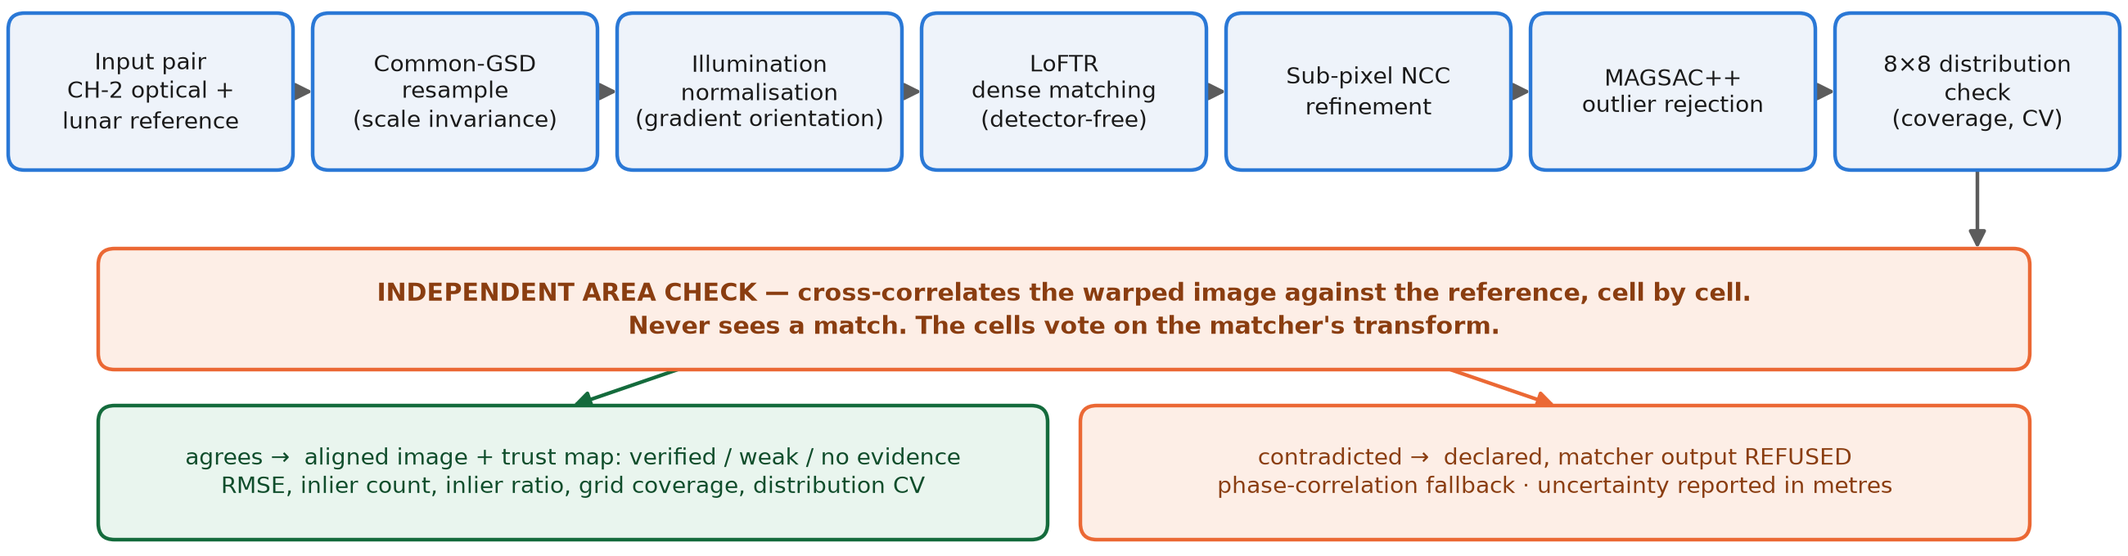
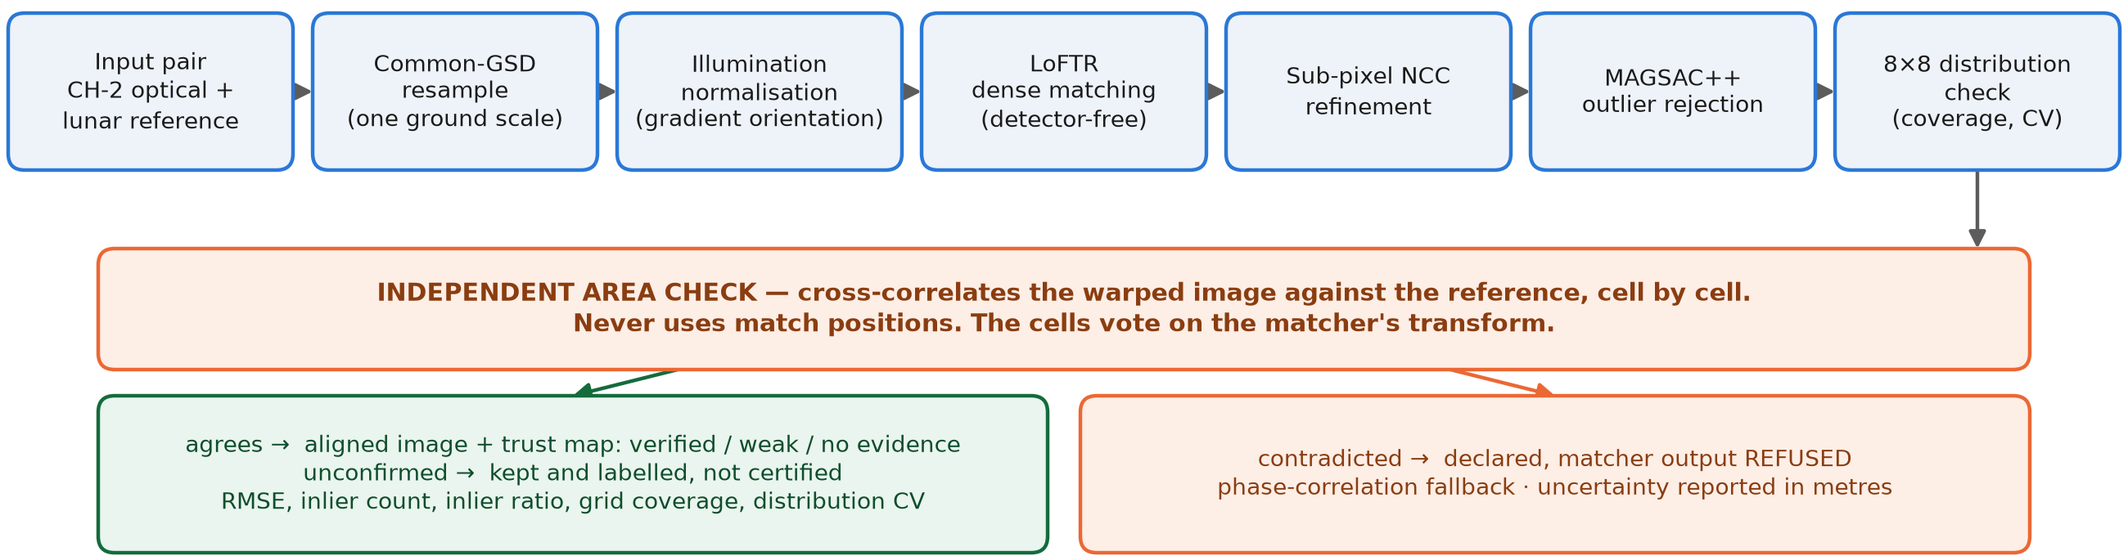
Deck v2 after claim-checker on the filled deck: scope and labels, not numbers; fits the footer
claim-checker at 3214e8a: 0 numeric mismatches; 3 HIGH, 7 MEDIUM, 12 LOW, all about what a
number is measured on. Fixed in presentation/build_deck.py: the held-out residual names the
74 S site and Suns 3-6 deg apart and puts SAC's equatorial pair (0.69-1.7 px, 1.62 m grid)
beside it; OHRC -> TMC-2 gives azimuth AND incidence difference; MiLOI scene S3 named on both
slides; planted-error scope (22 windows, Sun azimuths under 10 deg) and 1-2 m (2/352);
corner offset is a disagreement removed before matching; loops are consistency, not ground
accuracy; Kaguya TC named as the visible side; fore/aft quotes its one accepted window.
presentation/make_figures.py: fig5 legend 'accepted' (verified is a cell state), title range
read from the rows, rare outcomes drawn on top; fig4 shows the unconfirmed branch, 'never
uses match positions', 'one ground scale'.

The PowerPoint render showed slides 2 and 4 running into the footer (the build audit checks
boxes, not rendered text); both tightened, and presentation/export_pdf.py now fails on any
text in the footer band. PDF CHECK is clean apart from the portal Team ID.

core/pipeline.py: the CLI's --out passes the pair's geometry_prior.json to export_bundle, so
its report.md names tier and instruments. Reporting only: no evidence path uses the CLI
export, and no logged number changes (evidence stays at 49bdad9).
README: 'never uses the match positions'; the Sun sweep is under OHRC <-> NAC.
[…]

diff --git a/presentation/build_deck.py b/presentation/build_deck.py
@@ -150,15 +150,15 @@ S2 = [
     # core/pipeline.run_all order: LoFTR -> _refine_subpixel -> filter_matches (MAGSAC++).
     ("One ground scale; lighting reduced to edge direction; LoFTR matches; sub-pixel "
      "refinement; MAGSAC++.", 1, False, INK),
-    ("An independent area check never uses the matches: it cross-correlates the warped image "
-     "against the reference in 8×8 cells, inverted shading too, and says agrees, "
-     "unconfirmed or contradicted; contradicted falls back.", 1, False, INK),
+    ("An independent area check, blind to match positions, cross-correlates the warped image "
+     "with the reference in 8×8 cells: agrees, unconfirmed, or contradicted, which falls back.",
+     1, False, INK),
     ("How it addresses the problem", 0, True, BLUE),
     # REPORT.md "SAC's own benchmark pair (equatorial ...)": Δsun az (an AZIMUTH difference),
     # count of `agrees` / rows. "(polar ...)": `agrees` / rows.
-    ("SAC's own pairs (arXiv:2509.04775, Table 1), real and cross-sensor: OHRC ↔ NAC "
-     "M1350459544RE, Sun azimuths 174° apart, 6/6 windows accepted; polar "
-     "M165491149RE, Suns 132° apart, 4/6, the other two flagged.", 1, False, INK),
+    ("SAC's own pairs (arXiv:2509.04775, Table 1), cross-sensor: OHRC ↔ NAC M1350459544RE, "
+     "Sun azimuths 174° apart, 6/6 windows accepted; polar M165491149RE, 132°, 4/6, the "
+     "other two flagged.", 1, False, INK),
     # "Real sun-angle sweep": "All bins" line (NAC frames, azimuth range).
     # "Scale rung: ... TC ortho map": scale column, `agrees` / rows. LOLA: "Declared-failure rung".
     # Polar: 4 agrees, 1 unconfirmed, 1 contradicted (fallback) = "the other two flagged".
@@ -166,17 +166,18 @@ S2 = [
      "and Kaguya TC 7.4 m (29.6×, 3/4 accepted); to LOLA 60 m it declares failure.",
      1, False, INK),
     # "Kaguya TC -> Kaguya MI" + "... IIRS": windows declared fft fallback / total.
-    ("Multi-modal: visible to Kaguya MI 1548 nm and IIRS infrared — learned matching fails; "
+    ("Multi-modal: Kaguya TC (visible) to Kaguya MI 1548 nm and Chandrayaan-2 IIRS infrared — "
+     "learned matching fails; "
      "13 of 14 windows are refused and fall back, the other stays unconfirmed.", 1, False, INK),
     ("Innovation and uniqueness", 0, True, ACCENT),
     # "MiLOI": the verdict table, column "matcher H within 3 px" (what the trust layer judges).
     # NOT "independent": the truth network is built from OTHER pairs where ours and SIFT agree.
-    ("On 81 real same-sensor NAC pairs (MiLOI), truth built leave-one-out from other pairs "
-     "where ours and SIFT agree: agrees within 3 px 33/33; contradicted wrong "
-     "43/43; unconfirmed wrong 5/5.", 1, False, INK),
+    ("MiLOI, 81 real same-sensor NAC pairs, truth from other pairs where ours and SIFT agree "
+     "(56 in scene S3, where it has no redundancy): agrees within 3 px 33/33, contradicted "
+     "wrong 43/43, unconfirmed wrong 5/5.", 1, False, INK),
     # "Trust layer on real imagery: planted ...": 0 m row = false alarms; 3 m row; >= 5 m rows.
-    ("Planted wrong answers in real OHRC/NAC windows: 0% false alarms on correct ones, "
-     "81% caught at 3 m, 100% from 5 m; 2 m or less almost always passes. No matches means "
+    ("Planted wrong answers, 22 real OHRC/NAC windows (Sun azimuths under 10° apart): 0/44 "
+     "false alarms; flagged 81% at 3 m, 100% from 5 m, 2/352 at 1–2 m. No matches means "
      "\"no evidence\", never \"verified\".", 1, True, ACCENT),
 ]
 
@@ -197,31 +198,34 @@ S3_RIGHT = [
     ("Prototype: a Streamlit app exporting the registered GeoTIFF, GDAL/QGIS control points, "
      "an ISIS-style match list, metrics and the trust map.", 1, False, INK),
     ("Every run appends to the evidence logs; a generator rebuilds the report from them, and "
-     "every number here is copied from it.", 1, False, INK),
+     "every number here traces to it.", 1, False, INK),
 ]
 
 S4 = [
     ("Analysis of the feasibility", 0, True, BLUE),
     # REPORT.md footer: registered pairs; instrument pairings = its pair sections (OHRC-NAC,
     # NAC-NAC, OHRC-TMC2, TMC2-TMC2, TC-MI, TC-IIRS, OHRC-TC, OHRC-LOLA). "Loop closure".
-    ("Built and measured, not proposed: 136 real windows across 8 instrument pairings, all "
-     "public data, all libraries open-source. Three-image loops close to 0.10 m.", 1, False, INK),
+    ("Built and measured, not proposed: 136 real window pairs, 8 instrument pairings, public "
+     "data, open-source libraries. Six three-image loops close to a median 0.10 m "
+     "(consistency, not ground accuracy).", 1, False, INK),
     # "Chandrayaan-2 OHRC -> LRO NAC": held-out median range, Δsun az range, ref_gsd_m values.
-    ("Held-out residual on real OHRC → NAC windows (Sun 3.3–5.8° apart): median "
-     "0.41–1.0 px on the ~1 m NAC grids (0.51–0.94 m). A residual, not ground truth.",
+    ("Held-out residual, OHRC → NAC, median per window: 0.41–1.0 px (0.51–0.94 m) at 74 °S, "
+     "Sun azimuths 3–6° apart, ~1 m grids; 0.69–1.7 px (1.1–2.7 m) on SAC's equatorial pair, "
+     "174° apart, 1.62 m grid. Not ground truth.",
      1, False, INK),
     ("Potential challenges and risks", 0, True, ACCENT),
     # "MiLOI" table rows 90-120, 120-180 (all methods); "Real sun-angle sweep" bins 60-90, 90-120
     # (accepted / windows) and 120-180. "SAC's benchmark site: OHRC -> TMC-2": Δsun az, verdicts.
-    ("The hard band: no method registered a MiLOI pair with the Suns over 90° apart (0 of "
-     "16); our sweep accepted 0 of 12 windows at 60–120° azimuth, yet 10 of 15 at "
-     "120–153°. OHRC → TMC-2 at SAC's site, Suns 120° apart: 0 of 4, all refused.", 1, False, INK),
+    ("The hard band: no method registered any of the 16 MiLOI pairs with Suns over 90° apart "
+     "(all scene S3); our sweep accepted 0 of 12 at 60–120° azimuth, 10 of 15 at 120–153°; "
+     "OHRC → TMC-2 at SAC's site (azimuths 120°, incidence 59° apart): all 4 refused.",
+     1, False, INK),
     # "SAC's own benchmark pair (equatorial ...)" note: the wide-search offset.
-    ("Archive geometry is not truth: at SAC's site the NAC's published corners sat 1.9 km from "
-     "the OHRC grid; we correct it and report it.", 1, False, INK),
+    ("Archive geometry is not truth: at SAC's equatorial site the NAC's published corners and "
+     "the OHRC grid disagree by 1.9 km; a wide search removes it before matching.", 1, False, INK),
     # "Real viewpoint: TMC-2 fore -> aft": held-out median column (NOT the RMSE-within-3-px one).
-    ("Relief parallax is not a homography: TMC-2 fore vs aft (same sensor) leaves a held-out "
-     "median of 2.6–49 px on its 5.9 m grid.", 1, False, INK),
+    ("Relief parallax is not a homography: TMC-2 fore vs aft (same sensor, same Sun) accepts 1 "
+     "window of 4, held-out median 2.6 px (16 m) on its 5.9 m grid.", 1, False, INK),
     ("Strategies for overcoming these challenges", 0, True, BLUE),
     ("Tile-level local transforms and LOLA-based orthorectification for relief.", 1, False, INK),
     ("Full-scene tiled processing of OHRC strips; IIRS band selection for the infrared leg.",
@@ -233,9 +237,10 @@ S5 = [
     # "Trust layer on real imagery": >= 5 m rows; the 1-2 m rows are the stated floor.
     ("Landing-site safety at the lunar south pole: a hazard map is only as good as the "
      "alignment beneath it. Every region carries its own verdict; planted errors of 5 m or more "
-     "were all flagged, and the floor — about 2 m — is stated, not hidden.", 1, False, INK),
+     "were all flagged, 81% at 3 m, and at 2 m or less almost none — that floor is stated, "
+     "not hidden.", 1, False, INK),
     # distinct OHRC products in real_pairs_log (source_product ch2_ohr_*) and their sites.
-    ("OHRC frames co-register with LRO NAC and Kaguya TC (3 frames at 3 sites so far): "
+    ("OHRC frames co-register with LRO NAC (3 frames at 3 sites) and Kaguya TC (1 site) so far: "
      "mosaics, time series and change detection gated by trust.", 1, False, INK),
     ("Benefits of the solution", 0, True, ACCENT),
     ("Scientific: a verdict per region instead of one number for a whole image, calibrated "

diff --git a/presentation/make_figures.py b/presentation/make_figures.py
@@ -593,7 +593,7 @@ def fig_pipeline():
 
     steps = [
         "Input pair\nCH-2 optical +\nlunar reference",
-        "Common-GSD\nresample\n(scale invariance)",
+        "Common-GSD\nresample\n(one ground scale)",
         "Illumination\nnormalisation\n(gradient orientation)",
         "LoFTR\ndense matching\n(detector-free)",
         # run_all's order: refinement (pipeline._refine_subpixel) runs BEFORE MAGSAC++
@@ -616,16 +616,17 @@ def fig_pipeline():
     cx, cw, cy, ch = 0.60, 11.80, 1.14, 0.74
     placed.append(_box(ax, cx, cy, cw, ch,
                        "INDEPENDENT AREA CHECK — cross-correlates the warped image against the "
-                       "reference, cell by cell.\nNever sees a match. The cells vote on "
+                       "reference, cell by cell.\nNever uses match positions. The cells vote on "
                        "the matcher's transform.",
                        "#fdeee6", ORANGE, fs=10.8, bold=True, colour="#8a3d10"))
     last_x = x0 + (n - 1) * (w + gap) + w / 2
     _arrow(ax, last_x, y, last_x, cy + ch)
 
     # Two outcomes, and the second one is the point.
-    oy, oh = 0.10, 0.82
+    oy, oh = 0.02, 0.96
     placed.append(_box(ax, 0.60, oy, 5.80, oh,
                        "agrees →  aligned image + trust map: verified / weak / no evidence\n"
+                       "unconfirmed →  kept and labelled, not certified\n"
                        "RMSE, inlier count, inlier ratio, grid coverage, distribution CV",
                        "#e9f5ee", "#146b3c", fs=10, colour="#0f4d2b"))
     placed.append(_box(ax, 6.60, oy, 5.80, oh,
@@ -649,7 +650,7 @@ def fig_pipeline():
 REAL_LOG = ROOT / "evaluation" / "real_pairs_log.csv"
 TRUST_REAL = ROOT / "evaluation" / "trust_real_calibration.csv"
 OUTCOME_STYLE = {   # colour AND marker, so identity is never colour-alone
-    "correct_accepted": (AQUA, "o", "registered, verified"),
+    "correct_accepted": (AQUA, "o", "registered, accepted"),
     "caught_failure": (BLUE, "s", "failed, and the system said so"),
     "false_alarm": (MUTED, "D", "correct, but flagged"),
     "missed_failure": (ORANGE, "X", "failed, NOT caught"),
@@ -689,11 +690,13 @@ def fig_real_sun_sweep():
             continue
         counts[key] = len(pts)
         x, y = zip(*pts)
-        ax.scatter(x, y, s=70, c=col, marker=mk, edgecolors=SURFACE, linewidths=1.2, zorder=3,
+        ax.scatter(x, y, s=70, c=col, marker=mk, edgecolors=SURFACE, linewidths=1.2,
+                   zorder=5 if key in ("caught_failure", "missed_failure") else 3,
                    label=f"{label} ({len(pts)})")
     ax.set_xlabel("sun-azimuth difference, OHRC vs NAC  (degrees)", fontsize=14)
     ax.set_ylabel("inlier matches per window", fontsize=14)
-    ax.set_title("Real OHRC vs LRO NAC: one site, sun 3-153° apart",
+    az = [float(r["d_sun_azimuth_deg"]) for r in rows if r.get("d_sun_azimuth_deg")]
+    ax.set_title(f"Real OHRC vs LRO NAC: Sun azimuths {min(az):.0f}–{max(az):.0f}° apart",
                  loc="left", fontweight="bold", fontsize=15, pad=10)
     ax.set_xlim(-5, 165)
     ax.set_ylim(0, 20000)

diff --git a/presentation/export_pdf.py b/presentation/export_pdf.py
@@ -15,6 +15,7 @@ demo venv on purpose (it is not on the demo path):
     pip install --target <some dir> pymupdf ; set PYTHONPATH=<some dir>
 
 Checks on the result, all printed: 6 pages, the slide aspect ratio, each page's title text,
+no text running into the footer bar (the one overflow the build audit cannot see),
 no "[TBD]" left, the file size. Do not upload a PDF this script did not pass.
 """
 from __future__ import annotations
@@ -29,6 +30,7 @@ HERE = pathlib.Path(__file__).resolve().parent
 DECK = HERE / "SIH26166_LunaXX_deck.pptx"
 PDF = DECK.with_suffix(".pdf")
 POWERPNT = r"C:\Program Files\Microsoft Office\root\Office16\POWERPNT.EXE"
+FOOTER_TOP_IN = 6.95                      # the template's footer bar starts here (build_deck)
 TITLES = ("TITLE PAGE", "IDEA TITLE", "TECHNICAL APPROACH", "FEASIBILITY AND VIABILITY",
           "IMPACT AND BENEFITS", "RESEARCH")
 
@@ -104,6 +106,15 @@ def crop_and_check(printed: pathlib.Path, final: pathlib.Path) -> int:
             problems.append(f"page {i + 1}: title {TITLES[i]!r} not found")
         if "TBD" in text:
             problems.append(f"page {i + 1}: a [TBD] placeholder is still on the page")
+        # Text that runs into the footer bar (from 6.95 in of 7.5). build_deck's audit checks
+        # the text BOXES; only the rendered page shows text overflowing its box, and on 20 Sep
+        # slides 2 and 4 did exactly that. The page number is the one thing allowed there.
+        if i:
+            r = page.rect
+            foot = r.y0 + r.height * FOOTER_TOP_IN / 7.5
+            for b in page.get_text("blocks"):
+                if b[3] > foot + 1 and not b[4].strip().isdigit():
+                    problems.append(f"page {i + 1}: text runs into the footer: {b[4].strip()[:50]!r}")
     doc.set_metadata({"title": "SIH26166 - LunaXX", "author": "Team LunaXX",
                       "subject": "Smart India Hackathon 2026, problem statement SIH26166"})
     doc.save(str(final), garbage=3, deflate=True)

diff --git a/core/pipeline.py b/core/pipeline.py
@@ -72,6 +72,7 @@ from __future__ import annotations
 
 import argparse
 import csv
+import json
 import pathlib
 import sys
 import time
@@ -800,7 +801,11 @@ def _run_one(src, ref, H_true, args, pair_id, tier, config, gsd_mpp):
     _print_report(r)
     if getattr(args, "out", None):
         from core.export import export_bundle
-        files = export_bundle(r, pathlib.Path(args.out) / pair_id, pair_id, src, ref)
+        # A cut pair carries its tier and instruments in geometry_prior.json beside the images;
+        # without it report.md printed "-" for both instruments (20 Sep). Reporting only.
+        gp = pathlib.Path(ref).parent / "geometry_prior.json"
+        prior = json.loads(gp.read_text(encoding="utf-8")) if gp.is_file() else None
+        files = export_bundle(r, pathlib.Path(args.out) / pair_id, pair_id, src, ref, prior=prior)
         print(f"  deliverables  {len(files)} files -> {pathlib.Path(args.out) / pair_id}")
 
     logged = True

diff --git a/presentation/DECK_V2_DRAFT.md b/presentation/DECK_V2_DRAFT.md
@@ -15,6 +15,18 @@
 > other SIH26166 idea. Output: `presentation/SIH26166_LunaXX_deck.pptx`. The college-round deck
 > (`SIH26166_deck.pptx`) is left as it was.
 >
+> Revised 20 Sep after `claim-checker` on the filled deck (3214e8a: 0 numeric mismatches; 3 HIGH,
+> 7 MEDIUM, 12 LOW on scope and labels). Fixed: the held-out residual now says it is the 74 °S
+> site with Suns 3–6° apart and puts SAC's equatorial pair beside it; OHRC → TMC-2 gives azimuth
+> AND incidence difference; fig5's legend says "accepted", not "verified"; MiLOI's scene S3 is
+> named on both slides; the planted-error scope (22 windows, Sun azimuths under 10° apart) and
+> the 1–2 m behaviour are stated; the NAC corner offset is a disagreement, removed by a wide
+> search before matching; loops are "consistency, not ground accuracy"; the visible side of the
+> multi-modal pairs is named (Kaguya TC); "never uses match positions"; fig4 shows the
+> unconfirmed branch; "traces to", not "copied from"; fore/aft quotes the one accepted window.
+> Slides 2 and 4 then overflowed the footer in the PowerPoint render and were tightened;
+> `presentation/export_pdf.py` now fails on any text in the footer band.
+>
 > Revised 19 Sep after `claim-checker` (19 findings). Fixed in the text: the "nothing registers
 > past 90°" claim (the sweep accepts near-opposite Suns), "one log / nothing typed", the fore/aft
 > statistic, "independent truth", the false-alarm label, the shadow claim, the safety absolute,
@@ -53,32 +65,33 @@
 | Text on the slide | Value at 49bdad9 | Source (REPORT.md section → column) |
 |---|---|---|
 | Sun azimuths … apart, … accepted (SAC equatorial) | 174° (173.5–173.7); 6/6 | "SAC's own benchmark pair (equatorial …)" → Δsun az; `agrees` / rows |
-| polar: Suns … apart, …, the other two flagged | 132° (132.2–132.3); 4/6; w05 unconfirmed, w06 contradicted + fallback | "SAC's own benchmark pair (polar …)" → Δsun az; verdicts |
+| polar …°, …, the other two flagged | 132° (132.2–132.3); 4/6; w05 unconfirmed, w06 contradicted + fallback | "SAC's own benchmark pair (polar …)" → Δsun az; verdicts |
 | … NAC frames, azimuths …–…° apart | 25; 3–153 (3.3–152.7) | "Real sun-angle sweep" → the "All bins" line |
 | TC …×, … accepted | 29.6×; 3/4 (w04 unconfirmed) | "Scale rung: … TC ortho map" → scale; `agrees` / rows |
-| infrared: … of … refused and fall back, the other stays unconfirmed | 13 of 14 (MI 1548 nm 3/3, IIRS 10/11; IIRS 1555 w10 unconfirmed) | "Kaguya TC → Kaguya MI" 1548 nm rows + "… IIRS" rows → declared / verdict |
-| MiLOI: … pairs; agrees within 3 px; contradicted wrong; unconfirmed wrong | 81; 33/33; 43/43; 5/5 | "MiLOI" → the verdict table, column **matcher H within 3 px** (what the trust layer judges). `rmse_gt_px` for agrees is 28/33: have both ready for Q&A |
-| …% false alarms, …% caught at 3 m, …% from 5 m; 2 m or less almost always passes | 0% (0/44); 81% (143/176 = 81.2 %); 100% (176/176 at each of 5–200 m); 2 m: 2/176 flagged, 1 m: 0/176 | "Trust layer on real imagery: planted …" → the 0, 1, 2, 3 and ≥ 5 m rows |
+| Kaguya TC (visible) to MI 1548 nm and Chandrayaan-2 IIRS: … of … refused and fall back, the other stays unconfirmed | 13 of 14 (MI 1548 nm 3/3, IIRS 10/11; IIRS 1555 w10 unconfirmed) | "Kaguya TC → Kaguya MI" 1548 nm rows + "… IIRS" rows → declared / verdict |
+| MiLOI, … pairs (… in scene S3); agrees within 3 px; contradicted wrong; unconfirmed wrong | 81 (56 in S3); 33/33; 43/43; 5/5 | "MiLOI" → the verdict table, column **matcher H within 3 px** (what the trust layer judges). `rmse_gt_px` for agrees is 28/33: have both ready for Q&A |
+| … real windows (Sun azimuths under …° apart): …/44 false alarms; flagged …% at 3 m, …% from 5 m, …/352 at 1–2 m | 22 (3.3, 5.8, 9.1°); 0/44; 81% (143/176 = 81.2 %); 100% (176/176 at each of 5–200 m); 2/352 (1 m 0/176; 2 m 2/176 contradicted, 58 unconfirmed, 116 agrees) | "Trust layer on real imagery: planted …" → the 0, 1, 2, 3 and ≥ 5 m rows |
 
 ## Slide 4 (feasibility)
 
 | Text on the slide | Value at 49bdad9 | Source |
 |---|---|---|
-| … real windows | 136 | REPORT.md footer: 140 registered pairs, minus 4 duplicate windows of Known issue 2 (`presentation.make_figures._distinct_windows`: `w01`=`w01_sw`, `w02`=`w02_sw`, `w03`=`w03_sw`, `w01_t`=`w04` of M1153871873LE) |
-| … instrument pairings | 8 | REPORT.md pair sections: OHRC-NAC, NAC-NAC, OHRC-TMC2, TMC2-TMC2, TC-MI, TC-IIRS, OHRC-TC, OHRC-LOLA. Not the log's `kind` column (the TC→MI rows say `nac-nac`) |
-| loops close to … m | 0.10 (median 0.104, max 0.128, 6 loops) | "Loop closure" → loop RMS median |
-| OHRC → NAC residual: Sun …°, median … px, … m | 3.3–5.8°; 0.41–1.0 px (0.410–1.005); 0.51–0.94 m; 20/20 agree | "Chandrayaan-2 OHRC → LRO NAC" → Δsun az range, held-out median range, the (m) values. Two NAC grids (0.931 and 1.245 m) |
-| MiLOI past 90°: … of … | 0 of 16 (9 + 7 pairs, every method) | "MiLOI" table → rows 90-120 and 120-181 |
+| … real window pairs | 136 | REPORT.md footer: 140 registered pairs, minus 4 duplicate windows of Known issue 2 (`presentation.make_figures._distinct_windows`: `w01`=`w01_sw`, `w02`=`w02_sw`, `w03`=`w03_sw`, `w01_t`=`w04` of M1153871873LE) |
+| … instrument pairings | 8 | REPORT.md pair sections: OHRC-NAC, NAC-NAC, OHRC-TMC2, TMC2-TMC2, TC-MI, TC-IIRS, OHRC-TC, OHRC-LOLA. (Some pre-18-Sep rows' `kind` said `nac-nac` for TC→MI; the latest rows say `tc-mi`, and REPORT.md derives the kind from the product ids anyway.) |
+| Six three-image loops close to a median … m | 0.10 (median 0.104, max 0.128, 6 loops) | "Loop closure" → loop RMS median |
+| OHRC → NAC residual: 74 °S, Sun azimuths …° apart, median … px, … m | 3–6° (3.3, 5.8); 0.41–1.0 px (0.410–1.005); 0.51–0.94 m; 20/20 agree | "Chandrayaan-2 OHRC → LRO NAC" → Δsun az range, held-out median range, the (m) values. Two NAC grids (0.931 and 1.245 m) |
+| … on SAC's equatorial pair, 174° apart, 1.62 m grid | 0.69–1.7 px (0.690–1.676); 1.1–2.7 m (1.120–2.718) | "SAC's own benchmark pair (equatorial …)" → held-out median column and its (m) |
+| MiLOI past 90°: any of the … pairs (all scene S3) | 16 (9 + 7 pairs, every method 0; all S3 in miloi_log) | "MiLOI" table → rows 90-120 and 120-181 |
 | sweep: … of … at 60-120°, … of … at 120-153° | 0 of 12 (7 + 5); 10 of 15 | "Real sun-angle sweep" → bins 60-90 + 90-120, and 120-180 (registered & accepted / windows) |
-| OHRC → TMC-2 at SAC's site, Suns … apart: … of 4, all refused | 120° (120.2); 0 of 4, all contradicted + fallback | "SAC's benchmark site: OHRC → TMC-2 nadir" → Δsun az; verdict; declared |
-| NAC corners … km off at SAC's site | 1.9 km (+488, +1790 m → 1.86 km) | "SAC's own benchmark pair (equatorial …)" note → wide-search offset (`site_geometry/M1350459544RE.json`) |
-| fore/aft held-out median …–… px | 2.6–49 px (2.617–49.358) on the 5.929 m grid; verdicts 1 agrees, 2 unconfirmed, 1 contradicted | "Real viewpoint: TMC-2 fore → aft" → **held-out median** column, not "RMSE ≤ 3 px" (capped at 3 px by definition) |
+| OHRC → TMC-2 at SAC's site (azimuths …°, incidence …° apart): all 4 refused | 120° (120.2); 59° (d_incidence −59.44); 4/4 contradicted + fallback | "SAC's benchmark site: OHRC → TMC-2 nadir" → Δsun az; verdict; declared |
+| NAC's published corners and the OHRC grid disagree by … km | 1.9 km (+488, +1790 m → 1.86 km); applied before cutting by `cut_pradan_pairs.wide_offset` | "SAC's own benchmark pair (equatorial …)" note → wide-search offset (`site_geometry/M1350459544RE.json`) |
+| fore/aft accepts … window of 4, held-out median … px (… m) | 1 (w04 agrees; w02, w03 unconfirmed; w01 contradicted + fallback); 2.6 px (2.617) × 5.929 m = 16 m (15.5) | "Real viewpoint: TMC-2 fore → aft" → **held-out median** column, not "RMSE ≤ 3 px" (capped at 3 px by definition) |
 
 ## Slide 5 (impact)
 
 | Text on the slide | Value at 49bdad9 | Source |
 |---|---|---|
-| … OHRC frames at … sites | 3 at 3 | distinct `ch2_ohr_*` source products in the latest real_pairs_log rows: `…20200229T0739312111` (74 °S; NAC + TC + LOLA), `…20200824T0806596861` (62 °S, SAC polar; NAC), `…20210401T2357376656` (14 °S, SAC equatorial; NAC + TMC-2) |
+| LRO NAC (… frames at … sites) and Kaguya TC (… site) | 3 at 3; TC 1 site (74 °S) | distinct `ch2_ohr_*` source products in the latest real_pairs_log rows: `…20200229T0739312111` (74 °S; NAC + TC + LOLA), `…20200824T0806596861` (62 °S, SAC polar; NAC), `…20210401T2357376656` (14 °S, SAC equatorial; NAC + TMC-2) |
 
 ## Figures
 
@@ -114,5 +127,14 @@
   labelled unconfirmed and not certified (the log calls them `missed_failure`).
 - **"Is OHRC ↔ NAC multi-modal?"** No. Both are panchromatic. It is cross-sensor and
   cross-mission.
-- **"What does the check miss?"** Planted errors of 1-2 m (under ~2 px) pass; at 3 m some still
-  agree. State the floor.
+- **"What does the check miss?"** Planted errors of 1-2 m (under ~2 px) are not contradicted (2
+  of 352), though at 2 m a third come back `unconfirmed`; at 3 m 19 % still pass. State the floor.
+  The test was on 22 windows at 74 °S with Sun azimuths under 10° apart; nothing was planted on
+  the 132°/174° pairs.
+- **"Your TC rung: 3 of 4 accepted?"** w01 is dense (134 inliers, held-out median 0.55 px =
+  4.0 m); w02 (17 inliers, median 33.9 px) and w03 (39 inliers, 4.8 px) are thin. The defence:
+  the archive offset is 381–431 m on all four windows, consistent. Do not claim more.
+- **"Is everything from one commit?"** Every registration, sweep, loop, trust trial and the
+  MiLOI re-judge ran at 49bdad9. The MiLOI MATCHES themselves (LoFTR/SIFT/ORB/AKAZE, ~4.5 h)
+  were made at six earlier commits (3 of ours' 81 rows on `c9fb875-dirty`); `ops.freeze --plan`
+  checks that the matching code has not changed since, and it had not.

diff --git a/ops/national_round/SUBMISSION_FIELDS.md b/ops/national_round/SUBMISSION_FIELDS.md
@@ -1,0 +1,62 @@
+# SIH 2026 portal: what to type (SIH26166, team LunaXX)
+
+The portal asks for four things (2026 Guidelines p.11): the chosen PS, an **idea title**, an
+**idea description**, and the **idea presentation as a PDF**. The character limits were not found
+in any official source, so a short and a long version of each is given below. Paste the longest
+one that fits. Every number here is in `REPORT.md` at the evidence-freeze commit `49bdad9`; the
+deck carries the same ones.
+
+| Field | Value |
+|---|---|
+| Problem Statement | SIH26166: Multi-modal, Sun angle and scale invariant image correspondence using Chandrayaan-2 optical images (OHRC, TMC and IIRS) |
+| Theme / category | Space Technology · Software |
+| Team name | LunaXX |
+| PDF | `presentation/SIH26166_LunaXX_deck.pdf`, from `python -m presentation.export_pdf` (it must print `PDF CHECK: clean`) |
+
+## Idea title
+
+Long (107 characters):
+
+> Lunar image registration that knows when it is wrong: Sun-, scale- and sensor-robust Chandrayaan-2 matching
+
+Short (71 characters):
+
+> Trust-aware Sun-, scale- and sensor-robust Chandrayaan-2 image matching
+
+## Idea description
+
+Long (1,322 characters):
+
+> We register Chandrayaan-2 images to lunar references across Sun angle, scale and sensor, and
+> report, region by region, whether each alignment can be trusted. The pipeline runs in this
+> order: one ground scale; illumination reduced to gradient orientation; LoFTR dense matching;
+> sub-pixel refinement; MAGSAC++. An independent area check never sees the matches. It
+> cross-correlates the warped image against the reference in 8×8 cells and returns agrees,
+> unconfirmed or contradicted; a contradicted result falls back and says so. On SAC's own OHRC ↔
+> LRO NAC pair (arXiv:2509.04775), with Sun azimuths 174° apart, all 6 windows are accepted. On
+> the polar pair 4 of 6 are accepted and the other two are flagged. Across 136 real windows and 8
+> instrument pairings (OHRC, TMC-2, IIRS, LRO NAC, Kaguya TC and MI, LOLA), the held-out residual
+> on OHRC → NAC is a median of 0.41–1.0 px on the ~1 m NAC grids, and three-image loops close to
+> 0.10 m. Planted wrong answers in real windows: 0% false alarms, 100% flagged from 5 m.
+> Visible ↔ infrared: 13 of 14 windows are refused rather than silently misregistered. Outputs:
+> a GeoTIFF on the reference grid, match points (CSV, GDAL/QGIS, ISIS), metrics and the trust
+> map. Runs on a CPU laptop, offline, with open-source libraries only. Every number is
+> regenerated from logs by one command.
+
+Short (498 characters):
+
+> A lunar image-registration engine that aligns Chandrayaan-2 imagery to lunar references across
+> Sun angle, scale and sensor. It also says, region by region, whether the result can be trusted,
+> using an independent area check that never sees the matches. On SAC's own OHRC ↔ NAC pair, with
+> Suns 174° apart, 6 of 6 windows are accepted. Planted wrong answers in real windows are 100%
+> flagged from 5 m, with 0% false alarms. It outputs a GeoTIFF, match points and metrics, and runs
+> CPU-only and offline.
+
+## Before pressing submit
+
+1. Slide 1's Team ID must equal the portal's. Set `TEAM_ID` in `presentation/build_deck.py`,
+   then run `python -m presentation.build_deck` (it must print `AUDIT: clean`) and
+   `python -m presentation.export_pdf` (it must print `PDF CHECK: clean`).
+2. Open the PDF and page through all 6 slides once by eye.
+3. After submitting, take a screenshot of the confirmation. Write the time and the Team ID into
+   `ops/STATUS.md`.

diff --git a/README.md b/README.md
@@ -8,8 +8,8 @@ The engine registers a Chandrayaan-2 image to a lunar reference image across Sun
 sensor. It also reports, region by region, whether the result can be trusted:
 
 - every cell of an 8×8 grid over the reference is `verified`, `weak` or `no_evidence`;
-- an independent area check, which never sees the matches, cross-correlates the warped image
-  against the reference (inverted shading included) and says `agrees`, `unconfirmed` or
+- an independent area check, which never uses the match positions, cross-correlates the warped
+  image against the reference (inverted shading included) and says `agrees`, `unconfirmed` or
   `contradicted`;
 - `contradicted` switches to global correlation, and the output says it did.
 
@@ -46,10 +46,10 @@ Terminology follows `docs/00_CANONICAL_FACTS.md` §2 (Invariant 2).
 
 | Pair | Kind |
 |---|---|
-| Chandrayaan-2 OHRC ↔ LRO NAC, 74 °S site and SAC's two benchmark pairs (arXiv:2509.04775, Table 1) | cross-sensor, cross-mission |
+| Chandrayaan-2 OHRC ↔ LRO NAC: 74 °S site, a real Sun sweep across many NAC frames, and SAC's two benchmark pairs (arXiv:2509.04775, Table 1) | cross-sensor, cross-mission |
 | OHRC ↔ Kaguya TC ortho map | cross-sensor, cross-mission (scale rung) |
 | OHRC ↔ TMC-2 | cross-sensor, same mission |
-| LRO NAC ↔ LRO NAC (MiLOI benchmark, real Sun sweep) and TMC-2 fore ↔ aft | **same sensor**: Sun-angle and viewpoint tests |
+| LRO NAC ↔ LRO NAC (MiLOI benchmark, loop legs) and TMC-2 fore ↔ aft | **same sensor**: Sun-angle and viewpoint tests |
 | Kaguya TC ↔ Kaguya MI 1548 nm, TC ↔ Chandrayaan-2 IIRS | multi-modal (visible ↔ infrared) |
 | OHRC ↔ LOLA shaded relief | multi-modal (optical ↔ elevation), a **declared failure** |
 
